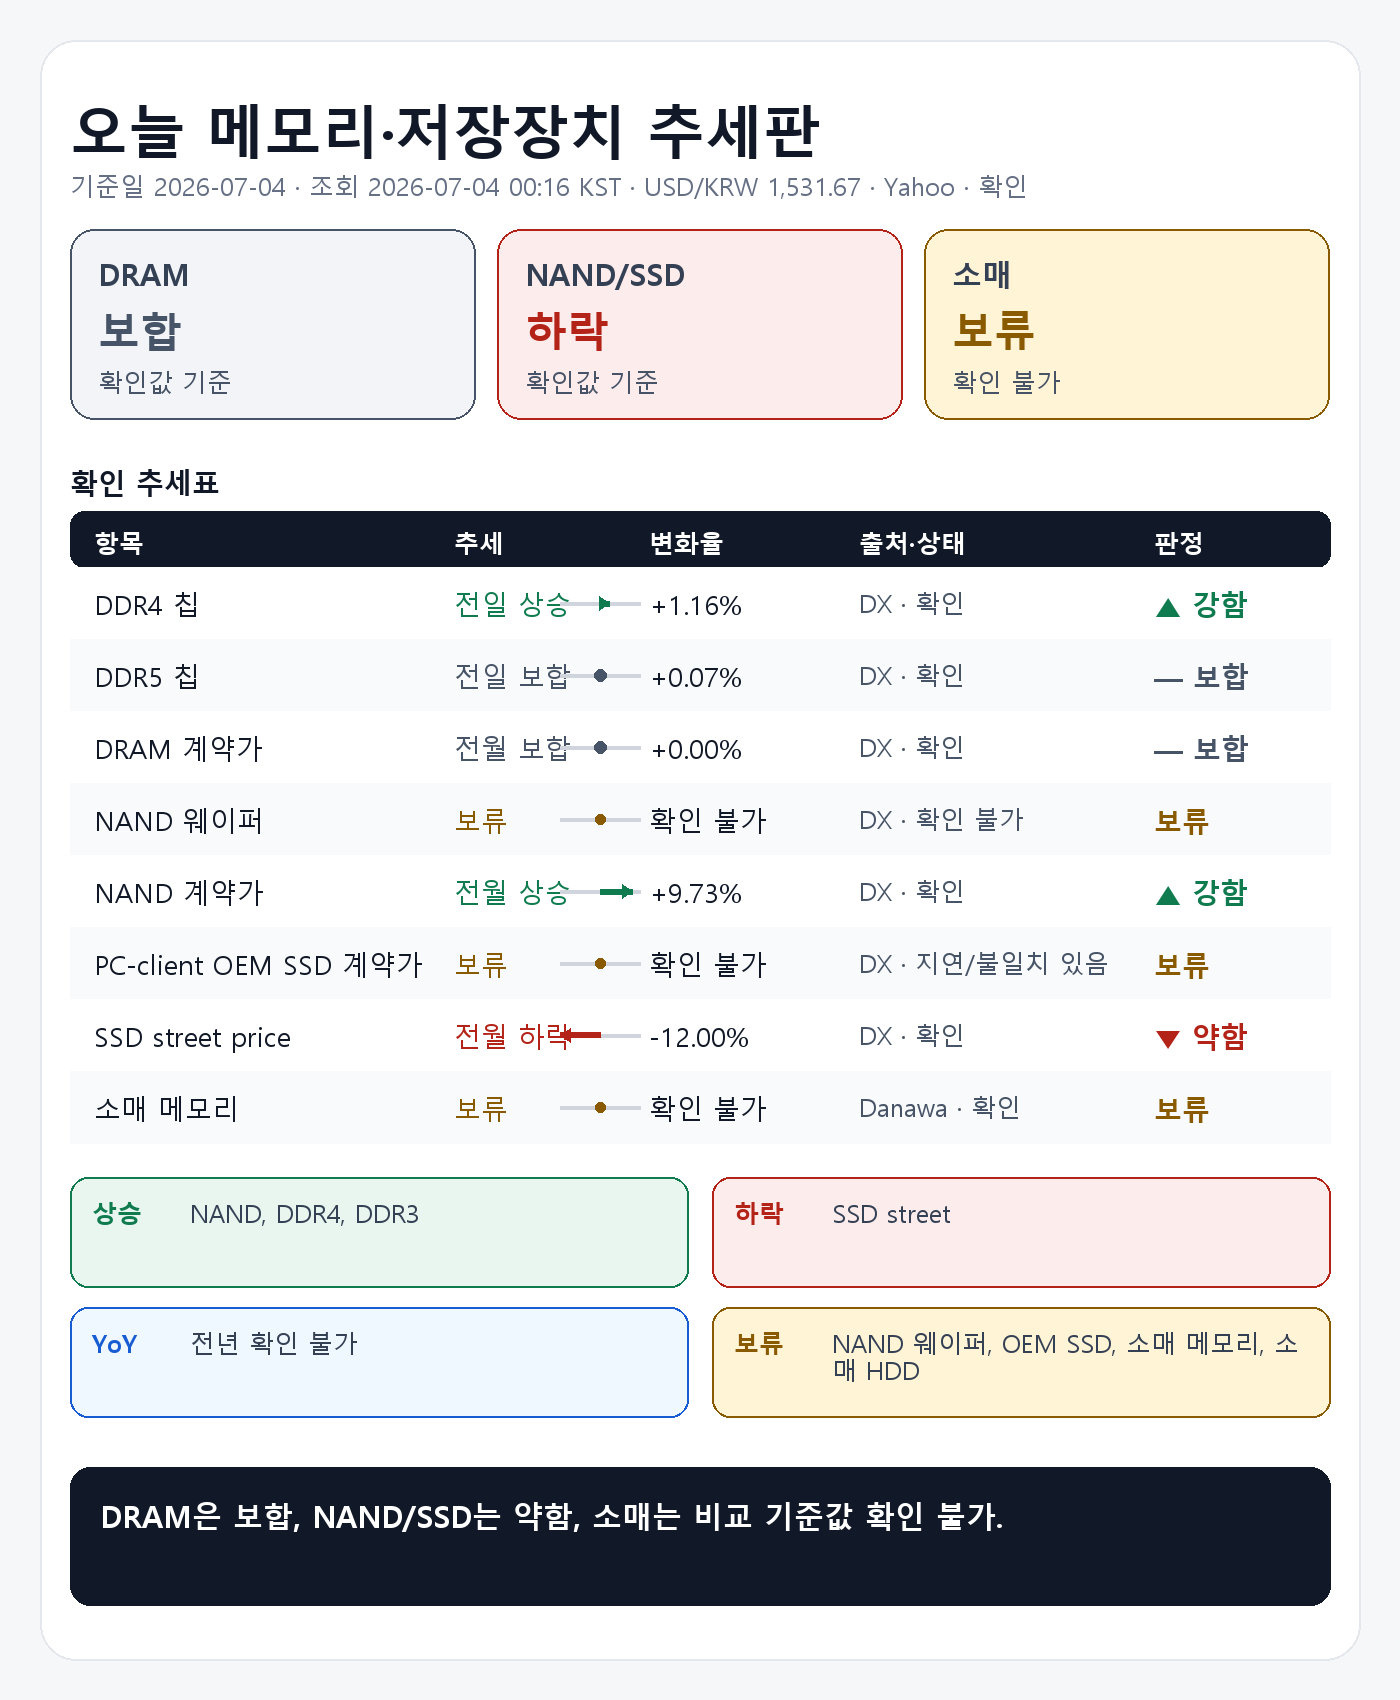
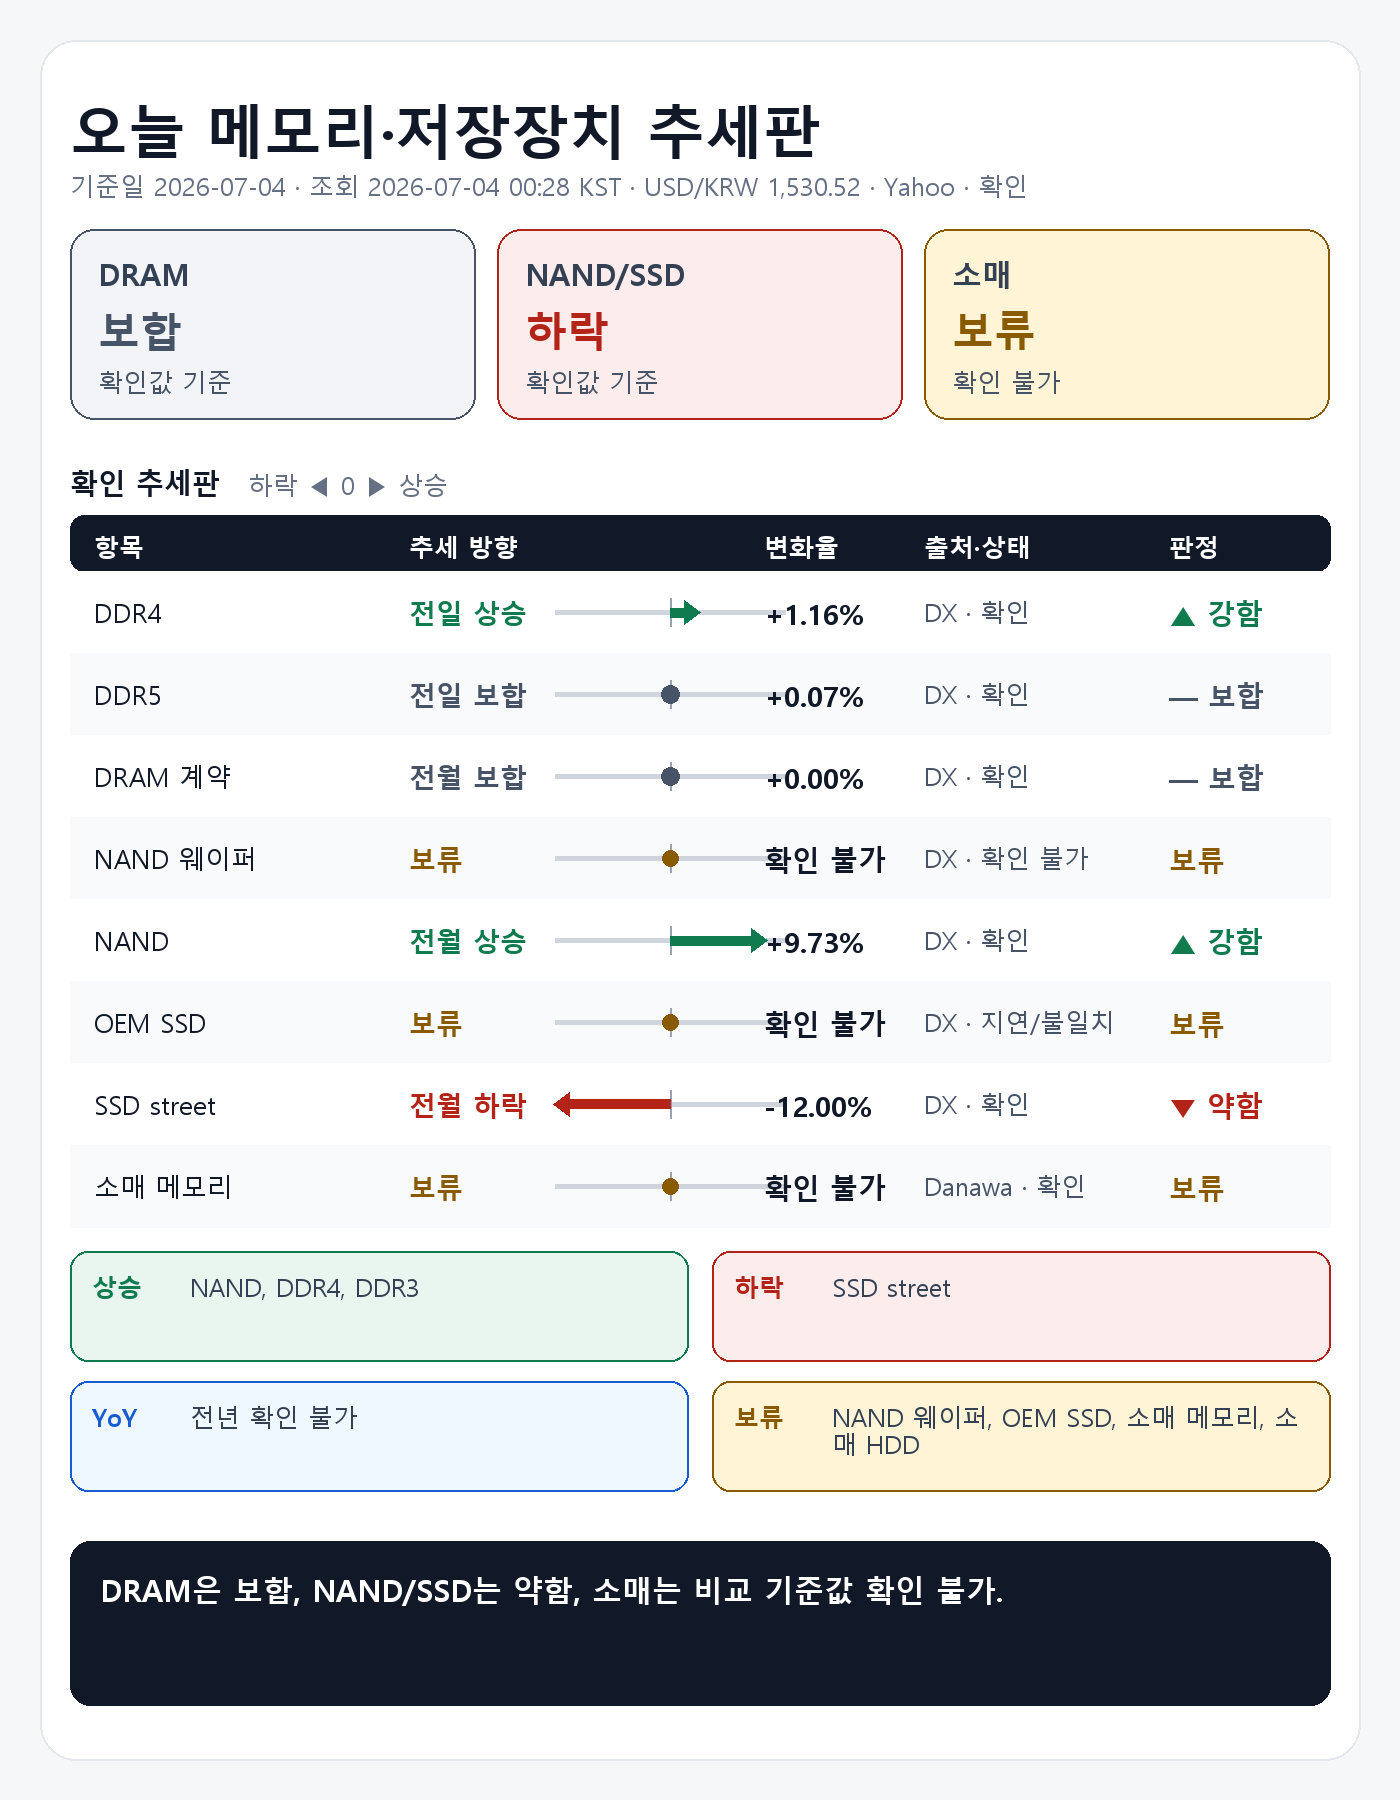
Make image trend board visually explicit

diff --git a/scripts/generate_memory_price_report.py b/scripts/generate_memory_price_report.py
@@ -530,6 +530,18 @@ def compact_source(record: ReportRecord) -> str:
     return "출처"
 
 
+def compact_status(status: str) -> str:
+    if status == VERIFIED:
+        return VERIFIED
+    if status == DELAYED_OR_CONFLICT:
+        return "지연/불일치"
+    if status == UNAVAILABLE:
+        return UNAVAILABLE
+    if status.startswith(UNAVAILABLE):
+        return UNAVAILABLE
+    return status[:8]
+
+
 def best_label(records: list[ReportRecord], reverse: bool) -> str:
     comparable = [record for record in records if record.change_pct is not None and record.month != UNAVAILABLE]
     if not comparable:
@@ -601,11 +613,11 @@ def build_card_data(records: list[ReportRecord], rate: ExchangeRate, conclusion:
         symbol = "▲ " if display_verdict == "강함" else "▼ " if display_verdict == "약함" else "— " if display_verdict == "보합" else ""
         rows.append(
             {
-                "item": wanted,
+                "item": compact_label(record.label),
                 "trend": image_trend_text(record),
                 "trend_pct": record.change_pct if verified_change else None,
                 "change": pct_text(record.change_pct) if verified_change else UNAVAILABLE,
-                "source_status": f"{compact_source(record)} · {record.certainty_status}",
+                "source_status": f"{compact_source(record)} · {compact_status(record.certainty_status)}",
                 "verdict": f"{symbol}{display_verdict if display_verdict != '판단 보류' else '보류'}",
             }
         )
@@ -695,32 +707,33 @@ def list_text(values: object, limit: int = 4) -> str:
     return str(values or "-")
 
 
-def draw_trend_marker(draw: ImageDraw.ImageDraw, x: int, y: int, change_pct: float | None) -> None:
+def draw_trend_marker(draw: ImageDraw.ImageDraw, x: int, y: int, change_pct: float | None, rail_width: int = 230) -> None:
     base_color = "#D0D5DD"
-    center = x + 40
-    draw.line((x, y, x + 80, y), fill=base_color, width=4)
+    center = x + rail_width // 2
+    draw.line((x, y, x + rail_width, y), fill=base_color, width=5)
+    draw.line((center, y - 14, center, y + 14), fill="#98A2B3", width=2)
     if change_pct is None:
-        draw.ellipse((center - 5, y - 5, center + 5, y + 5), fill="#8A5A00")
+        draw.ellipse((center - 8, y - 8, center + 8, y + 8), fill="#8A5A00")
         return
 
     magnitude = min(abs(change_pct), 12.0) / 12.0
-    length = max(9, int(40 * magnitude))
+    length = max(18, int((rail_width // 2 - 10) * magnitude))
     if change_pct > 0.5:
         color = "#0F7B4F"
         end = center + length
-        draw.line((center, y, end, y), fill=color, width=6)
-        draw.polygon([(end, y), (end - 10, y - 7), (end - 10, y + 7)], fill=color)
+        draw.line((center, y, end, y), fill=color, width=10)
+        draw.polygon([(end + 12, y), (end - 4, y - 12), (end - 4, y + 12)], fill=color)
     elif change_pct < -0.5:
         color = "#B42318"
         end = center - length
-        draw.line((center, y, end, y), fill=color, width=6)
-        draw.polygon([(end, y), (end + 10, y - 7), (end + 10, y + 7)], fill=color)
+        draw.line((center, y, end, y), fill=color, width=10)
+        draw.polygon([(end - 12, y), (end + 4, y - 12), (end + 4, y + 12)], fill=color)
     else:
-        draw.ellipse((center - 6, y - 6, center + 6, y + 6), fill="#475467")
+        draw.ellipse((center - 9, y - 9, center + 9, y + 9), fill="#475467")
 
 
 def create_card_png(card: dict[str, Any], output_path: Path) -> None:
-    width, height = 1400, 1700
+    width, height = 1400, 1800
     image = Image.new("RGB", (width, height), "#F6F7F9")
     draw = ImageDraw.Draw(image)
 
@@ -728,8 +741,9 @@ def create_card_png(card: dict[str, Any], output_path: Path) -> None:
     meta_font = font(25)
     box_label_font = font(30, bold=True)
     box_status_font = font(42, bold=True)
-    table_font = font(27)
+    table_font = font(26)
     table_bold_font = font(28, bold=True)
+    trend_font = font(27, bold=True)
     chip_font = font(25, bold=True)
     conclusion_font = font(30, bold=True)
 
@@ -757,33 +771,34 @@ def create_card_png(card: dict[str, Any], output_path: Path) -> None:
         draw.text((x + 28, y + 135), str(box.get("basis") or UNAVAILABLE), font=meta_font, fill="#475467")
     y += box_h + 44
 
-    draw.text((margin, y), "확인 추세표", font=table_bold_font, fill="#111827")
-    y += 48
+    draw.text((margin, y), "확인 추세판", font=table_bold_font, fill="#111827")
+    draw.text((margin + 178, y + 4), "하락 ◀ 0 ▶ 상승", font=meta_font, fill="#667085")
+    y += 52
     header_h = 56
     draw.rounded_rectangle((margin, y, width - margin, y + header_h), radius=14, fill="#111827")
-    headers = [("항목", 0), ("추세", 360), ("변화율", 555), ("출처·상태", 765), ("판정", 1060)]
+    headers = [("항목", 0), ("추세 방향", 315), ("변화율", 670), ("출처·상태", 830), ("판정", 1075)]
     for label, offset in headers:
         draw.text((margin + 24 + offset, y + 14), label, font=chip_font, fill="#FFFFFF")
     y += header_h
 
     rows = (card.get("rows") or [])[:8]
-    row_h = 72
+    row_h = 82
     for idx, row in enumerate(rows):
         bg = "#FFFFFF" if idx % 2 == 0 else "#F9FAFB"
         draw.rectangle((margin, y, width - margin, y + row_h), fill=bg)
-        draw.text((margin + 24, y + 18), str(row.get("item") or "-")[:24], font=table_font, fill="#111827")
+        draw.text((margin + 24, y + 23), str(row.get("item") or "-")[:22], font=table_font, fill="#111827")
         trend = str(row.get("trend") or "보류")
         trend_pct = row.get("trend_pct")
         trend_color, _ = status_color(trend)
-        draw.text((margin + 384, y + 18), trend[:8], font=table_font, fill=trend_color)
-        draw_trend_marker(draw, margin + 490, y + 36, trend_pct if isinstance(trend_pct, (int, float)) else None)
-        draw.text((margin + 579, y + 18), str(row.get("change") or "-")[:18], font=table_font, fill="#111827")
-        draw.text((margin + 789, y + 18), str(row.get("source_status") or "-")[:18], font=meta_font, fill="#475467")
+        draw.text((margin + 339, y + 23), trend[:8], font=trend_font, fill=trend_color)
+        draw_trend_marker(draw, margin + 485, y + 41, trend_pct if isinstance(trend_pct, (int, float)) else None)
+        draw.text((margin + 694, y + 23), str(row.get("change") or "-")[:12], font=table_bold_font, fill="#111827")
+        draw.text((margin + 854, y + 23), str(row.get("source_status") or "-")[:18], font=meta_font, fill="#475467")
         verdict = str(row.get("verdict") or "보류")
         color, _ = status_color(verdict)
-        draw.text((margin + 1084, y + 18), verdict[:16], font=table_bold_font, fill=color)
+        draw.text((margin + 1099, y + 23), verdict[:14], font=table_bold_font, fill=color)
         y += row_h
-    y += 34
+    y += 24
 
     chips = card.get("chips") or {}
     chip_labels = ["상승", "하락", "YoY", "보류"]

diff --git a/reports/memory_price_report_2026-07-04.md b/reports/memory_price_report_2026-07-04.md
@@ -1,21 +1,21 @@
 ## 1. 기준 환율 1줄
-USD/KRW: 1,531.67원 (조회 2026-07-04 00:16 KST, 출처 Yahoo Finance USDKRW=X, 원문 Last Update 2026-07-04 00:16 KST, 상태 확인, 전일 대비 -0.23%).
+USD/KRW: 1,530.52원 (조회 2026-07-04 00:28 KST, 출처 Yahoo Finance USDKRW=X, 원문 Last Update 2026-07-04 00:28 KST, 상태 확인, 전일 대비 -0.31%).
 
 ## 2. 오늘 한눈에 추세판
 | 구분 | 현재값 | 전일 | 전주 | 전월 | 전년 | 추세 | 판정 |
 |---|---:|---|---|---|---|---|---|
-| DDR3 칩 | $12.476 (약 19,109원) | 공개 변화율 +1.09% | 확인 불가 | 확인 불가 | 확인 불가 | 공개 변화율 +1.09% 기준 상승 | 강함 |
-| DDR4 칩 | $76.375 (약 116,981원) | 공개 변화율 +1.16% | 확인 불가 | 확인 불가 | 확인 불가 | 공개 변화율 +1.16% 기준 상승 | 강함 |
-| DDR5 칩 | $46.667 (약 71,478원) | 공개 변화율 +0.07% | 확인 불가 | 확인 불가 | 확인 불가 | 공개 변화율 +0.07% 기준 보합 | 보합 |
-| DDR4 모듈 | $149.576 (약 229,101원) | 확인 불가 | 공개 변화율 -0.23% | 확인 불가 | 확인 불가 | 공개 변화율 -0.23% 기준 보합 | 보합 |
-| DDR5 모듈 | $208.500 (약 319,353원) | 확인 불가 | 공개 변화율 -0.24% | 확인 불가 | 확인 불가 | 공개 변화율 -0.24% 기준 보합 | 보합 |
-| DRAM 계약가 (DDR4 8GB SO-DIMM) | $119.000 (약 182,269원) | 확인 불가 | 확인 불가 | 공개 변화율 +0.00%, 기준값 확인 불가 | 확인 불가 | 공개 변화율 +0.00% 기준 보합 | 보합 |
+| DDR3 칩 | $12.476 (약 19,095원) | 공개 변화율 +1.09% | 확인 불가 | 확인 불가 | 확인 불가 | 공개 변화율 +1.09% 기준 상승 | 강함 |
+| DDR4 칩 | $76.375 (약 116,893원) | 공개 변화율 +1.16% | 확인 불가 | 확인 불가 | 확인 불가 | 공개 변화율 +1.16% 기준 상승 | 강함 |
+| DDR5 칩 | $46.667 (약 71,425원) | 공개 변화율 +0.07% | 확인 불가 | 확인 불가 | 확인 불가 | 공개 변화율 +0.07% 기준 보합 | 보합 |
+| DDR4 모듈 | $149.576 (약 228,929원) | 확인 불가 | 공개 변화율 -0.23% | 확인 불가 | 확인 불가 | 공개 변화율 -0.23% 기준 보합 | 보합 |
+| DDR5 모듈 | $208.500 (약 319,113원) | 확인 불가 | 공개 변화율 -0.24% | 확인 불가 | 확인 불가 | 공개 변화율 -0.24% 기준 보합 | 보합 |
+| DRAM 계약가 (DDR4 8GB SO-DIMM) | $119.000 (약 182,132원) | 확인 불가 | 확인 불가 | 공개 변화율 +0.00%, 기준값 확인 불가 | 확인 불가 | 공개 변화율 +0.00% 기준 보합 | 보합 |
 | NAND 웨이퍼 | 확인 불가 | 확인 불가 | 확인 불가 | 확인 불가 | 확인 불가 | 확인 불가 | 판단 보류 |
-| NAND 계약가 (NAND 128Gb 16Gx8 Speedns) | $26.508 (약 40,602원) | 확인 불가 | 확인 불가 | 공개 변화율 +9.73%, 기준값 확인 불가 | 확인 불가 | 공개 변화율 +9.73% 기준 상승 | 강함 |
+| NAND 계약가 (NAND 128Gb 16Gx8 Speedns) | $26.508 (약 40,571원) | 확인 불가 | 확인 불가 | 공개 변화율 +9.73%, 기준값 확인 불가 | 확인 불가 | 공개 변화율 +9.73% 기준 상승 | 강함 |
 | PC-client OEM SSD 계약가 (1TB-mSATA/M.2 TLC PCIe-Value Grade) | 지연/불일치 있음 | 확인 불가 | 확인 불가 | 지연/불일치 있음 | 확인 불가 | 지연/불일치 있음 | 판단 보류 |
-| SSD street price (990 Pro) | $219.990 (약 336,952원) | 확인 불가 | 확인 불가 | 공개 변화율 -12.00%, 기준값 확인 불가 | 확인 불가 | 공개 변화율 -12.00% 기준 하락 | 약함 |
+| SSD street price (990 Pro) | $219.990 (약 336,699원) | 확인 불가 | 확인 불가 | 공개 변화율 -12.00%, 기준값 확인 불가 | 확인 불가 | 공개 변화율 -12.00% 기준 하락 | 약함 |
 | 소매 메모리 (삼성전자 DDR5-5600 32GB) | 650,000원 | 확인 불가 | 확인 불가 | 확인 불가 | 확인 불가 | 비교 기준값 확인 불가 | 판단 보류 |
-| 소매 HDD (Seagate BarraCuda 8TB) | 472,280원 | 확인 불가 | 확인 불가 | 확인 불가 | 확인 불가 | 비교 기준값 확인 불가 | 판단 보류 |
+| 소매 HDD (Seagate BarraCuda 8TB) | 469,000원 | 확인 불가 | 확인 불가 | 확인 불가 | 확인 불가 | 비교 기준값 확인 불가 | 판단 보류 |
 | 소매 SSD (Samsung 990 PRO 1TB) | 399,990원 | 확인 불가 | 확인 불가 | 확인 불가 | 확인 불가 | 비교 기준값 확인 불가 | 판단 보류 |
 
 ## 3. 상승·하락 요약 4줄
@@ -27,19 +27,19 @@ USD/KRW: 1,531.67원 (조회 2026-07-04 00:16 KST, 출처 Yahoo Finance USDKRW=X
 ## 4. 가격표
 | 항목 | 현재값 | 조회 시각·출처·상태 | 원문 Last Update | 전월 대비 | 전년 대비 | 추세 |
 |---|---:|---|---|---|---|---|
-| DDR3 칩 | $12.476 (약 19,109원) | 2026-07-04 00:16 KST · DRAMeXchange 공개표 (https://www.dramexchange.com/Price/Dram_Spot) · 상태 확인 | 홈 공개표, 원문 Last Update 별도 없음 | 확인 불가 | 확인 불가 | 공개 변화율 +1.09% 기준 상승 |
-| DDR4 칩 | $76.375 (약 116,981원) | 2026-07-04 00:16 KST · DRAMeXchange 공개표 (https://www.dramexchange.com/Price/Dram_Spot) · 상태 확인 | 홈 공개표, 원문 Last Update 별도 없음 | 확인 불가 | 확인 불가 | 공개 변화율 +1.16% 기준 상승 |
-| DDR5 칩 | $46.667 (약 71,478원) | 2026-07-04 00:16 KST · DRAMeXchange 공개표 (https://www.dramexchange.com/Price/Dram_Spot) · 상태 확인 | 홈 공개표, 원문 Last Update 별도 없음 | 확인 불가 | 확인 불가 | 공개 변화율 +0.07% 기준 보합 |
-| DDR4 모듈 | $149.576 (약 229,101원) | 2026-07-04 00:16 KST · DRAMeXchange 공개표 (https://www.dramexchange.com/Price/Module_Spot) · 상태 확인 | 홈 공개표, 원문 Last Update 별도 없음 | 확인 불가 | 확인 불가 | 공개 변화율 -0.23% 기준 보합 |
-| DDR5 모듈 | $208.500 (약 319,353원) | 2026-07-04 00:16 KST · DRAMeXchange 공개표 (https://www.dramexchange.com/Price/Module_Spot) · 상태 확인 | 홈 공개표, 원문 Last Update 별도 없음 | 확인 불가 | 확인 불가 | 공개 변화율 -0.24% 기준 보합 |
-| DRAM 계약가 (DDR4 8GB SO-DIMM) | $119.000 (약 182,269원) | 2026-07-04 00:16 KST · DRAMeXchange HomePrice NationalDramContract (https://www.dramexchange.com/Price/NationalContractDramDetail) · 상태 확인 | 2026-05-29 15:00:00 | 공개 변화율 +0.00%, 기준값 확인 불가 | 확인 불가 | 공개 변화율 +0.00% 기준 보합 |
-| NAND 웨이퍼 | 확인 불가 | 2026-07-04 00:16 KST · DRAMeXchange 공개표 (https://www.dramexchange.com/) · 상태 확인 불가 | 확인 불가 | 확인 불가 | 확인 불가 | 확인 불가 |
-| NAND 계약가 (NAND 128Gb 16Gx8 Speedns) | $26.508 (약 40,602원) | 2026-07-04 00:16 KST · DRAMeXchange HomePrice NationalFlashContract (https://www.dramexchange.com/Price/NationalContractFlashDetail) · 상태 확인 | 2026-05-29 10:00:00 | 공개 변화율 +9.73%, 기준값 확인 불가 | 확인 불가 | 공개 변화율 +9.73% 기준 상승 |
-| PC-client OEM SSD 계약가 (1TB-mSATA/M.2 TLC PCIe-Value Grade) | 지연/불일치 있음 | 2026-07-04 00:16 KST · DRAMeXchange HomePrice PCC (https://www.dramexchange.com/Price/PCClientOEMSSD) · 상태 지연/불일치 있음 | 2026-04-27 10:00:00 | 지연/불일치 있음 | 확인 불가 | 지연/불일치 있음 |
-| SSD street price (990 Pro) | $219.990 (약 336,952원) | 2026-07-04 00:16 KST · DRAMeXchange HomePrice SSD (https://www.dramexchange.com/Price/SSD_Street) · 상태 확인 | 2026-06-26 13:00:00 | 공개 변화율 -12.00%, 기준값 확인 불가 | 확인 불가 | 공개 변화율 -12.00% 기준 하락 |
-| 소매 메모리 (삼성전자 DDR5-5600 32GB) | 650,000원 | 2026-07-04 00:16 KST · Danawa prod 가격비교 · 삼성전자 DDR5-5600 32GB (https://prod.danawa.com/info/?pcode=20644043) · 상태 확인 | 상품 페이지 직접 조회, 원문 Last Update 별도 없음 | 확인 불가 | 확인 불가 | 비교 기준값 확인 불가 |
-| 소매 HDD (Seagate BarraCuda 8TB) | 472,280원 | 2026-07-04 00:16 KST · Danawa prod 가격비교 · Seagate BarraCuda 8TB (https://prod.danawa.com/info/?pcode=5764992) · 상태 확인 | 상품 페이지 직접 조회, 원문 Last Update 별도 없음 | 확인 불가 | 확인 불가 | 비교 기준값 확인 불가 |
-| 소매 SSD (Samsung 990 PRO 1TB) | 399,990원 | 2026-07-04 00:16 KST · Danawa prod 가격비교 · Samsung 990 PRO 1TB (https://prod.danawa.com/info/?pcode=18297002) · 상태 확인 | 상품 페이지 직접 조회, 원문 Last Update 별도 없음 | 확인 불가 | 확인 불가 | 비교 기준값 확인 불가 |
+| DDR3 칩 | $12.476 (약 19,095원) | 2026-07-04 00:28 KST · DRAMeXchange 공개표 (https://www.dramexchange.com/Price/Dram_Spot) · 상태 확인 | 홈 공개표, 원문 Last Update 별도 없음 | 확인 불가 | 확인 불가 | 공개 변화율 +1.09% 기준 상승 |
+| DDR4 칩 | $76.375 (약 116,893원) | 2026-07-04 00:28 KST · DRAMeXchange 공개표 (https://www.dramexchange.com/Price/Dram_Spot) · 상태 확인 | 홈 공개표, 원문 Last Update 별도 없음 | 확인 불가 | 확인 불가 | 공개 변화율 +1.16% 기준 상승 |
+| DDR5 칩 | $46.667 (약 71,425원) | 2026-07-04 00:28 KST · DRAMeXchange 공개표 (https://www.dramexchange.com/Price/Dram_Spot) · 상태 확인 | 홈 공개표, 원문 Last Update 별도 없음 | 확인 불가 | 확인 불가 | 공개 변화율 +0.07% 기준 보합 |
+| DDR4 모듈 | $149.576 (약 228,929원) | 2026-07-04 00:28 KST · DRAMeXchange 공개표 (https://www.dramexchange.com/Price/Module_Spot) · 상태 확인 | 홈 공개표, 원문 Last Update 별도 없음 | 확인 불가 | 확인 불가 | 공개 변화율 -0.23% 기준 보합 |
+| DDR5 모듈 | $208.500 (약 319,113원) | 2026-07-04 00:28 KST · DRAMeXchange 공개표 (https://www.dramexchange.com/Price/Module_Spot) · 상태 확인 | 홈 공개표, 원문 Last Update 별도 없음 | 확인 불가 | 확인 불가 | 공개 변화율 -0.24% 기준 보합 |
+| DRAM 계약가 (DDR4 8GB SO-DIMM) | $119.000 (약 182,132원) | 2026-07-04 00:28 KST · DRAMeXchange HomePrice NationalDramContract (https://www.dramexchange.com/Price/NationalContractDramDetail) · 상태 확인 | 2026-05-29 15:00:00 | 공개 변화율 +0.00%, 기준값 확인 불가 | 확인 불가 | 공개 변화율 +0.00% 기준 보합 |
+| NAND 웨이퍼 | 확인 불가 | 2026-07-04 00:28 KST · DRAMeXchange 공개표 (https://www.dramexchange.com/) · 상태 확인 불가 | 확인 불가 | 확인 불가 | 확인 불가 | 확인 불가 |
+| NAND 계약가 (NAND 128Gb 16Gx8 Speedns) | $26.508 (약 40,571원) | 2026-07-04 00:28 KST · DRAMeXchange HomePrice NationalFlashContract (https://www.dramexchange.com/Price/NationalContractFlashDetail) · 상태 확인 | 2026-05-29 10:00:00 | 공개 변화율 +9.73%, 기준값 확인 불가 | 확인 불가 | 공개 변화율 +9.73% 기준 상승 |
+| PC-client OEM SSD 계약가 (1TB-mSATA/M.2 TLC PCIe-Value Grade) | 지연/불일치 있음 | 2026-07-04 00:28 KST · DRAMeXchange HomePrice PCC (https://www.dramexchange.com/Price/PCClientOEMSSD) · 상태 지연/불일치 있음 | 2026-04-27 10:00:00 | 지연/불일치 있음 | 확인 불가 | 지연/불일치 있음 |
+| SSD street price (990 Pro) | $219.990 (약 336,699원) | 2026-07-04 00:28 KST · DRAMeXchange HomePrice SSD (https://www.dramexchange.com/Price/SSD_Street) · 상태 확인 | 2026-06-26 13:00:00 | 공개 변화율 -12.00%, 기준값 확인 불가 | 확인 불가 | 공개 변화율 -12.00% 기준 하락 |
+| 소매 메모리 (삼성전자 DDR5-5600 32GB) | 650,000원 | 2026-07-04 00:28 KST · Danawa prod 가격비교 · 삼성전자 DDR5-5600 32GB (https://prod.danawa.com/info/?pcode=20644043) · 상태 확인 | 상품 페이지 직접 조회, 원문 Last Update 별도 없음 | 확인 불가 | 확인 불가 | 비교 기준값 확인 불가 |
+| 소매 HDD (Seagate BarraCuda 8TB) | 469,000원 | 2026-07-04 00:28 KST · Danawa prod 가격비교 · Seagate BarraCuda 8TB (https://prod.danawa.com/info/?pcode=5764992) · 상태 확인 | 상품 페이지 직접 조회, 원문 Last Update 별도 없음 | 확인 불가 | 확인 불가 | 비교 기준값 확인 불가 |
+| 소매 SSD (Samsung 990 PRO 1TB) | 399,990원 | 2026-07-04 00:28 KST · Danawa prod 가격비교 · Samsung 990 PRO 1TB (https://prod.danawa.com/info/?pcode=18297002) · 상태 확인 | 상품 페이지 직접 조회, 원문 Last Update 별도 없음 | 확인 불가 | 확인 불가 | 비교 기준값 확인 불가 |
 
 ## 5. 마지막 한 줄
 전월 기준으로 가장 강한 쪽은 NAND 계약가, 전년 기준으로 가장 구조적으로 강한 쪽은 확인 불가, 가장 약한 쪽은 SSD street price, DRAM은 보합, NAND는 약함.